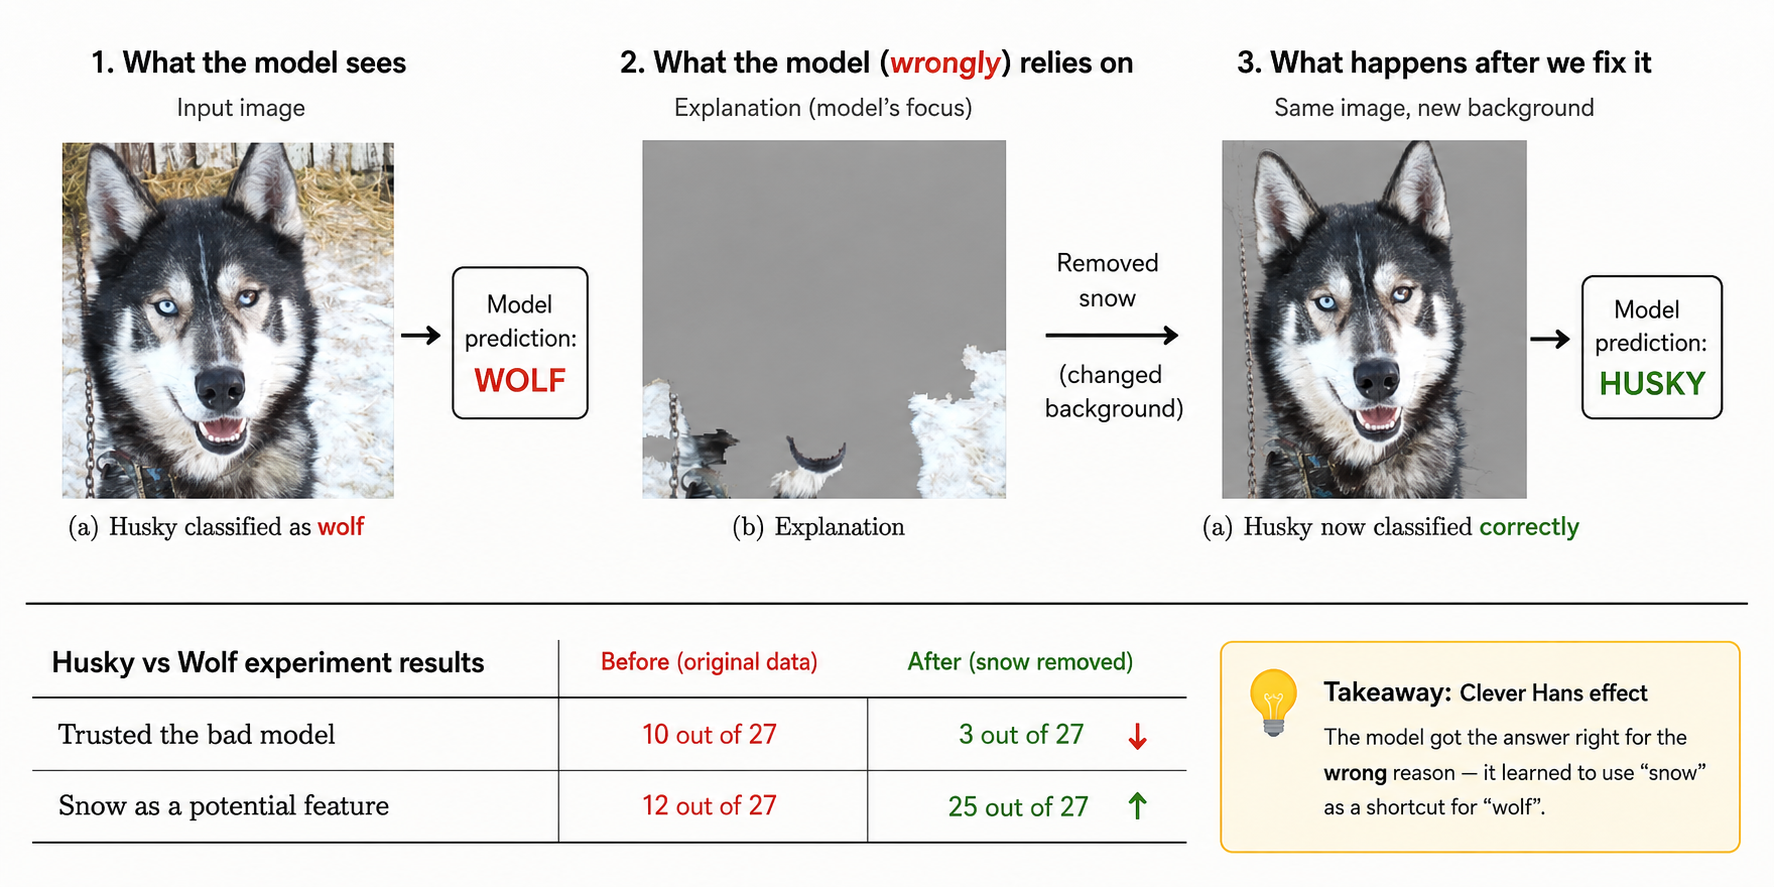
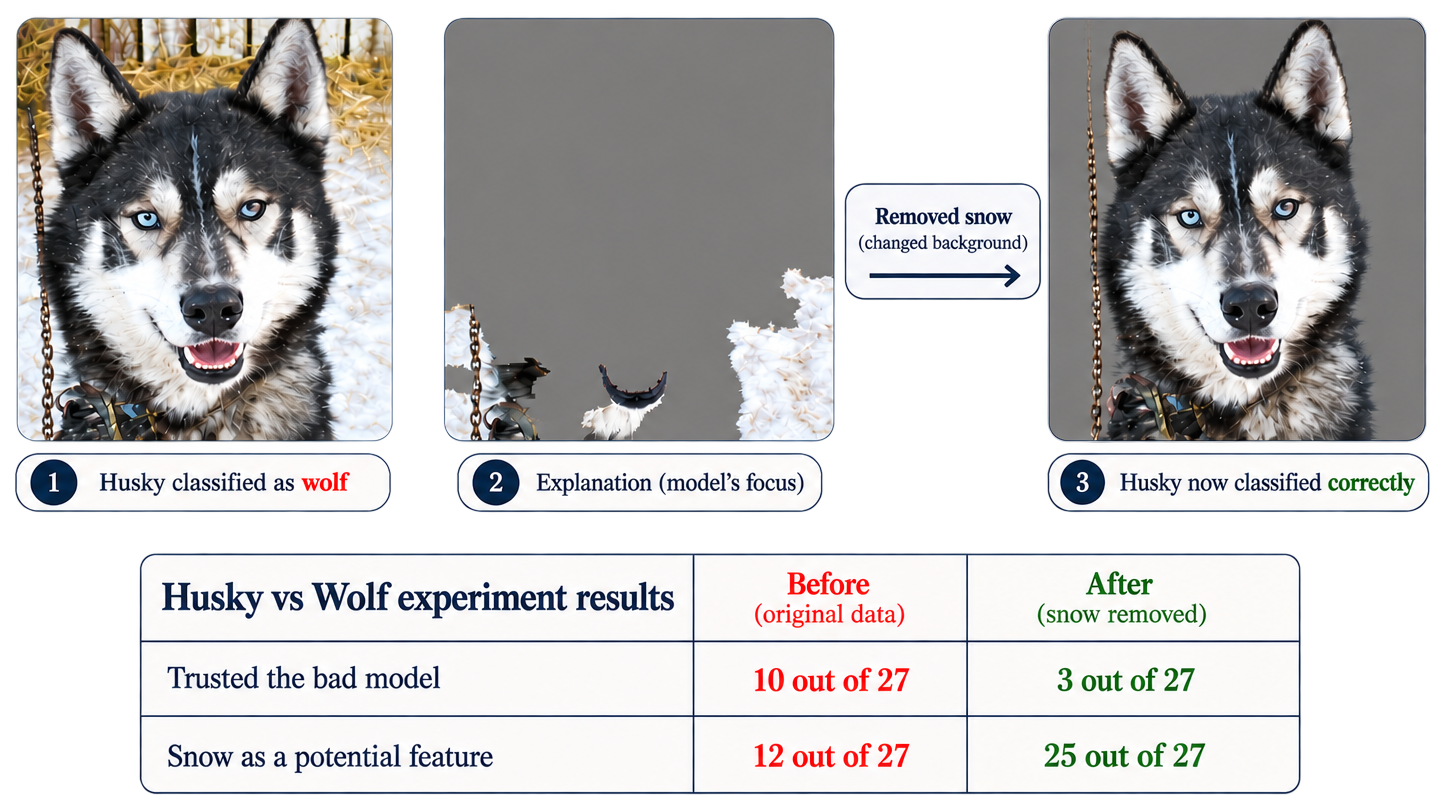
Show article publication and update dates

diff --git a/_layouts/article.html b/_layouts/article.html
@@ -55,6 +55,12 @@
     <article class="article-content">
       {{ content }}
     </article>
+
+    <div class="article-dates" aria-label="Article dates">
+      <span>Published <time datetime="{{ page.date | date: '%Y-%m-%d' }}">{{ page.date | date: "%b %-d, %Y" }}</time></span>
+      <span aria-hidden="true">·</span>
+      <span>Updated <time datetime="{{ page.last_updated | default: page.date | date: '%Y-%m-%d' }}">{{ page.last_updated | default: page.date | date: "%b %-d, %Y" }}</time></span>
+    </div>
   </main>
 
   <footer>

diff --git a/assets/css/site.css b/assets/css/site.css
@@ -1068,6 +1068,18 @@ footer {
   margin-inline: auto;
 }
 
+.article-dates {
+  width: min(calc(100% - 48px), 780px);
+  display: flex;
+  justify-content: center;
+  gap: 9px;
+  margin: 64px auto 0;
+  color: var(--subtle);
+  font: 600 10px/1.4 var(--sans);
+  letter-spacing: .075em;
+  text-transform: uppercase;
+}
+
 .article-content h2 {
   margin: 2.4em 0 .65em;
   font-size: clamp(28px, 3vw, 36px);

diff --git a/_posts/2026-06-23-ai-interpretability.md b/_posts/2026-06-23-ai-interpretability.md
@@ -1,6 +1,7 @@
 ---
 title: "A Map of AI Interpretability Research"
 date: 2026-06-23
+last_updated: 2026-09-02
 read_time: 12
 hero_art: /assets/notes/2026-06-23-ai-interpretability/map-interp-hero-interactive.svg
 hero_art_type: interactive
@@ -33,7 +34,7 @@ Interpretability and explainability (often used interchangeably) approach this m
 
 <section id="map-question0" data-map-section="map-0" markdown="1">
 
-### (0) Before the map: **what produced this model?**
+### (0) Before the map: **model setup matters**
 
 Not everything about a neural network is a mystery. We chose much of what produced the final model:
 
@@ -42,9 +43,13 @@ Not everything about a neural network is a mystery. We chose much of what produc
 - the **architecture** through which it processes information
 - the **training procedure**, including preprocessing and postprocessing
 
-These choices shape both the model and also its interpretations. A classic demonstration is called the [Clever Hans effect](https://www.gutenberg.org/files/33936/33936-h/33936-h.htm): a model produces the right answer, but for the wrong (not intended) reasons. An animal classifier, may learn that "snow means wolf" if wolves appear more frequently on snowy backgrounds in its training data ([Ribeiro et al., 2016](https://arxiv.org/abs/1602.04938)).
+These choices shape what the model learns, and thus also matter for interpretation. A classic demonstration is called the [Clever Hans effect](https://www.gutenberg.org/files/33936/33936-h/33936-h.htm): a model produces the answer for the wrong reasons. In the well-known wolf-husky example, a classifier learned to **associate snow with wolves** because wolves appeared more frequently on snowy backgrounds in the training data. Such a model can perform well on the test data too, but may fail when these spurious correlations are broken.
 
 ![Clever Hans effect illustrated with a husky](/assets/notes/2026-06-23-ai-interpretability/clever-hans.png)
+
+**Figure 1: Clever Hans effect in the "Husky vs Wolf" experiment.** The model misclassifies a husky as a wolf because it relies on snow as an unintended shortcut rather than the animal itself. The table shows how revealing 'snow' as a potential shortcut changed participants' trust in the model ([Ribeiro et al., 2016](https://arxiv.org/abs/1602.04938)).
+
+Now, there might be questions on what does it mean to meaningfully "remove snow" from an image, or how can we be sure model focused just on the snow. We will discuss these in Section TBD.
 
 Similar findings are often closely tied not just to the data, but also to the objective, architecture and training procedure. They all provide important context for understanding what we can find inside.
 

diff --git a/README.md b/README.md
@@ -34,7 +34,7 @@ lists it automatically.
 ## Add an article
 
 1. Copy `_templates/note.md` to `_posts/YYYY-MM-DD-article-slug.md`.
-2. Update its title, date, read time, TL;DR, card excerpt, thumbnail, and content.
+2. Update its title, date, last updated date, read time, TL;DR, card excerpt, thumbnail, and content.
 3. Put local visuals in `assets/notes/YYYY-MM-DD-article-slug/`.
 4. Preview the generated writing card locally; writing posts are listed automatically.
 

diff --git a/_posts/2026-01-27-concept-based-interpretability-in-medical-ai.md b/_posts/2026-01-27-concept-based-interpretability-in-medical-ai.md
@@ -1,6 +1,7 @@
 ---
 title: "Concept-Based Interpretability in Medical AI"
 date: 2026-01-27
+last_updated: 2026-09-02
 layout: article
 read_time: 8
 hero_art: /assets/notes/2026-01-27-concept-based-interpretability-in-medical-ai/hero-v1.png

diff --git a/_posts/2026-01-30-model-scientist.md b/_posts/2026-01-30-model-scientist.md
@@ -1,6 +1,7 @@
 ---
 title: "The Model as a Scientist"
 date: 2026-01-30
+last_updated: 2026-09-02
 layout: article
 read_time: 7
 hero_art: /assets/notes/2026-01-30-model-scientist/model-as-scientist-hero.png?v=1

diff --git a/_templates/note.md b/_templates/note.md
@@ -1,6 +1,7 @@
 ---
 title: "New Note Title"
 date: YYYY-MM-DD
+last_updated: YYYY-MM-DD
 layout: article
 read_time: 6
 categories: [notes]
